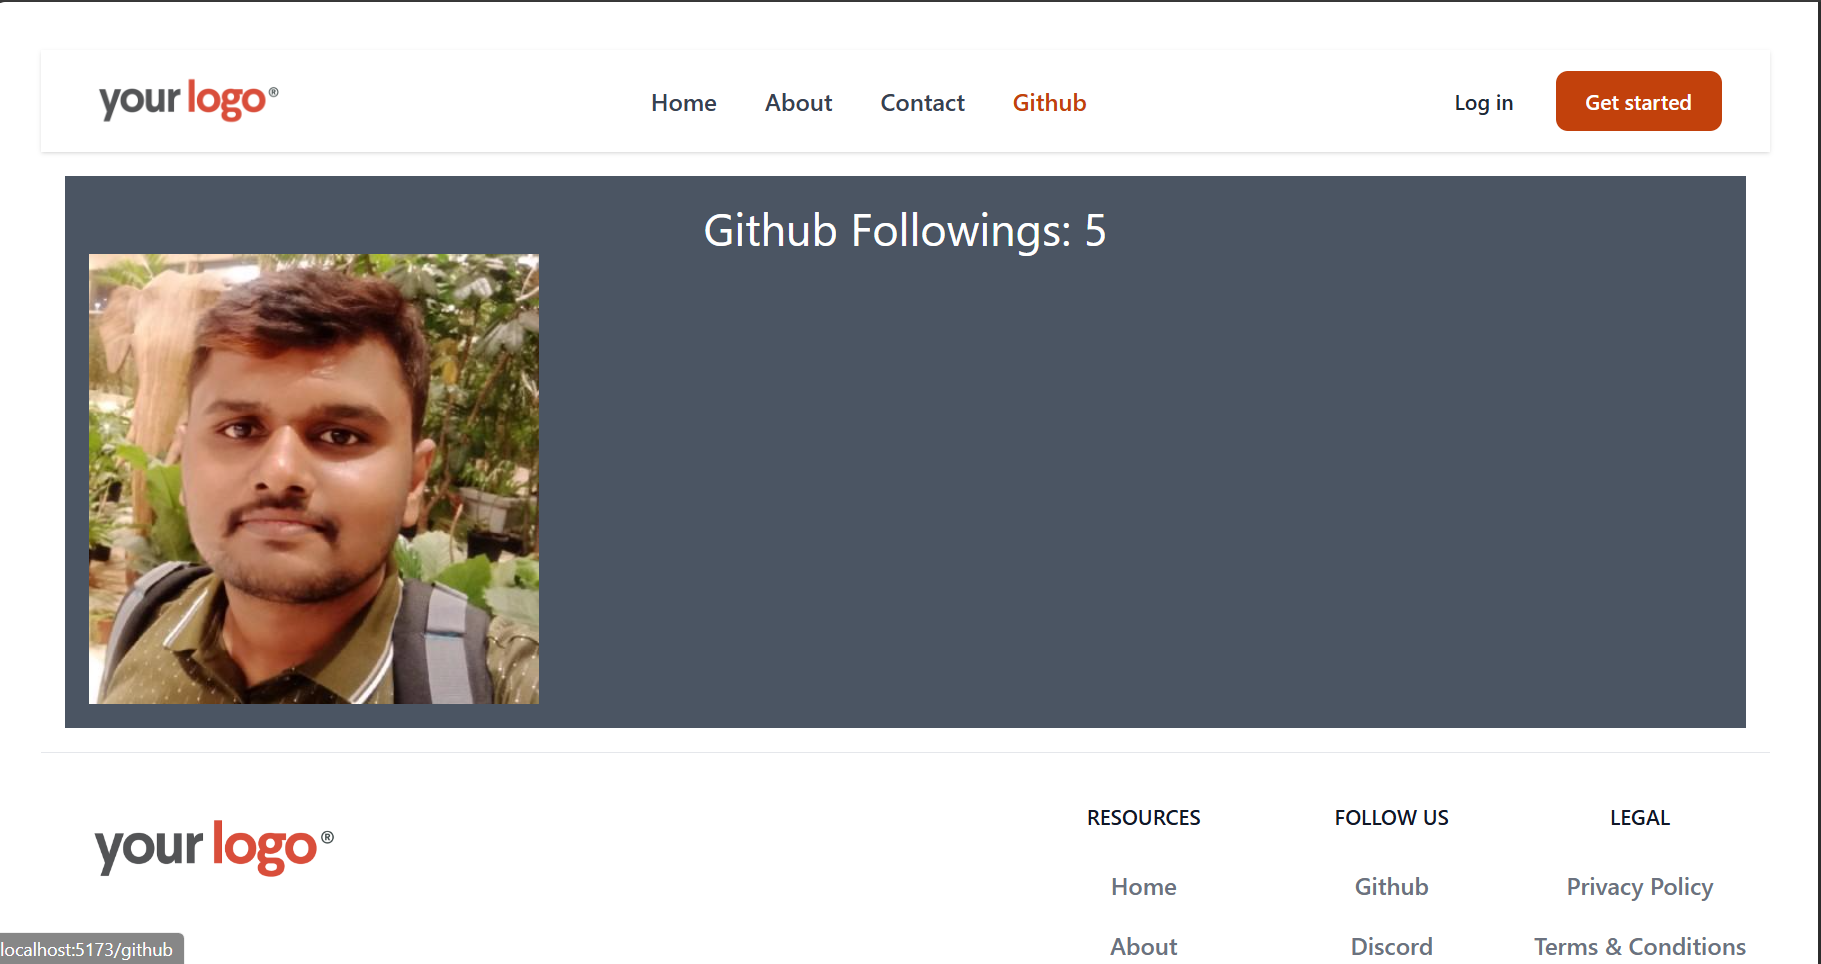
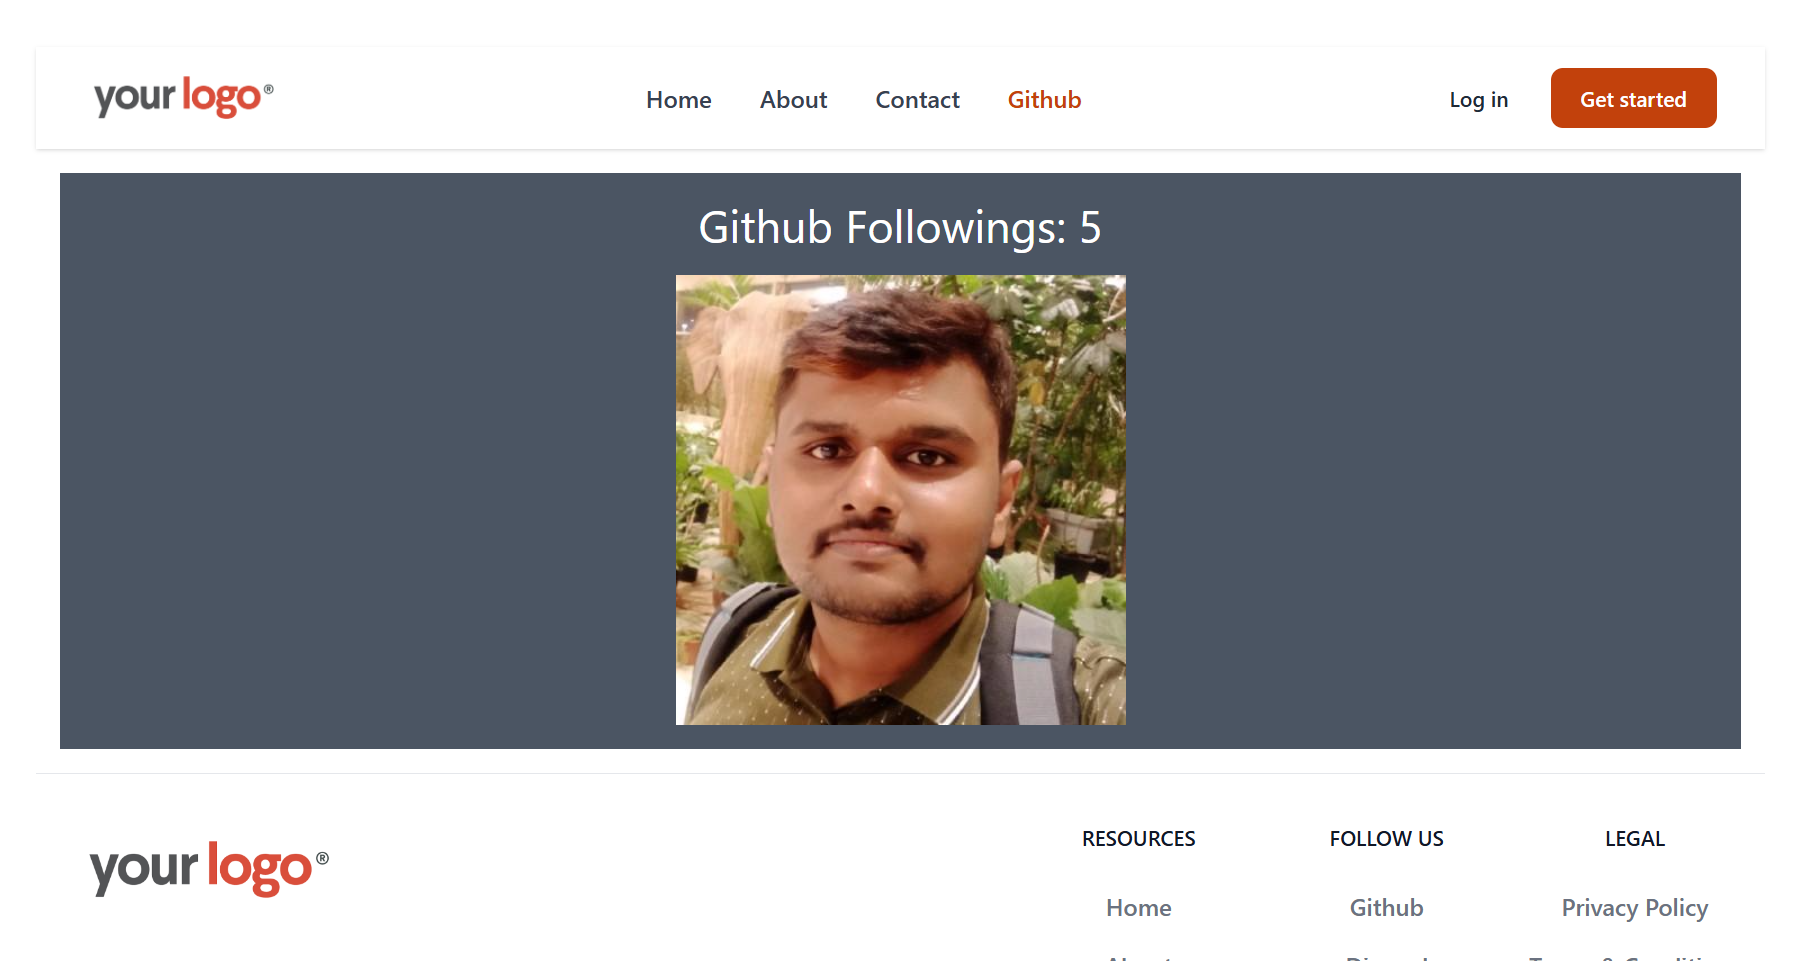
Some needed changes

diff --git a/07reactRouter/src/components/Home/Home.jsx b/07reactRouter/src/components/Home/Home.jsx
@@ -4,7 +4,7 @@ import { Link } from 'react-router-dom';
 export default function Home() {
     return (
         <div className="mx-auto w-full max-w-7xl">
-            <aside className="relative overflow-hidden text-black rounded-lg sm:mx-16 mx-2 sm:py-16">
+            {/* <aside className="relative overflow-hidden text-black rounded-lg sm:mx-16 mx-2 sm:py-16"> */}
                 <div className="relative z-10 max-w-screen-xl px-4  pb-20 pt-10 sm:py-24 mx-auto sm:px-6 lg:px-8">
                     <div className="max-w-xl sm:mt-1 mt-80 space-y-8 text-center sm:text-right sm:ml-auto">
                         <h2 className="text-4xl font-bold sm:text-5xl">
@@ -26,21 +26,21 @@ export default function Home() {
                             >
                                 <path d="M1.571 23.664l10.531-10.501 3.712 3.701-12.519 6.941c-.476.264-1.059.26-1.532-.011l-.192-.13zm9.469-11.56l-10.04 10.011v-20.022l10.04 10.011zm6.274-4.137l4.905 2.719c.482.268.781.77.781 1.314s-.299 1.046-.781 1.314l-5.039 2.793-4.015-4.003 4.149-4.137zm-15.854-7.534c.09-.087.191-.163.303-.227.473-.271 1.056-.275 1.532-.011l12.653 7.015-3.846 3.835-10.642-10.612z" />
                             </svg>
-                            &nbsp; Download now
+                            &nbsp; Enjoy now i.e Present 
                         </Link>
                     </div>
                 </div>
 
                 <div className="absolute inset-0 w-full sm:my-20 sm:pt-1 pt-12 h-full ">
-                    <img className="w-96" src="https://i.ibb.co/5BCcDYB/Remote2.png" alt="image1" />
+                    <img className="w-96 mt-20 ml-40" src="https://i.ibb.co/5BCcDYB/Remote2.png" alt="image1" />
                 </div>
-            </aside>
+            {/* </aside> */}
 
-            <div className="grid  place-items-center sm:mt-20">
+            {/* <div className="grid  place-items-center sm:mt-20">
                 <img className="sm:w-96 w-48" src="https://i.ibb.co/2M7rtLk/Remote1.png" alt="image2" />
-            </div>
+            </div> */}
 
-            <h1 className="text-center text-2xl sm:text-5xl py-10 font-medium">Lorem Ipsum Yojo</h1>
+            {/* <h1 className="text-center text-2xl sm:text-5xl py-10 font-medium">Lorem Ipsum Yojo</h1> */}
         </div>
     );
 }

diff --git a/07reactRouter/src/components/Github/Github.jsx b/07reactRouter/src/components/Github/Github.jsx
@@ -16,7 +16,9 @@ function Github() {
   return (
     <div className='text-center m-4 bg-gray-600 text-white p-4 text-3xl'>
         Github Followings: {data.following}
-        <img src={data.avatar_url} alt='Github picture' width={300}/>       
+        <div className='flex justify-center items-center mt-4'>
+        <img src={data.avatar_url} alt='Github picture' width={300}/>
+        </div>       
     </div>
   )
 }
